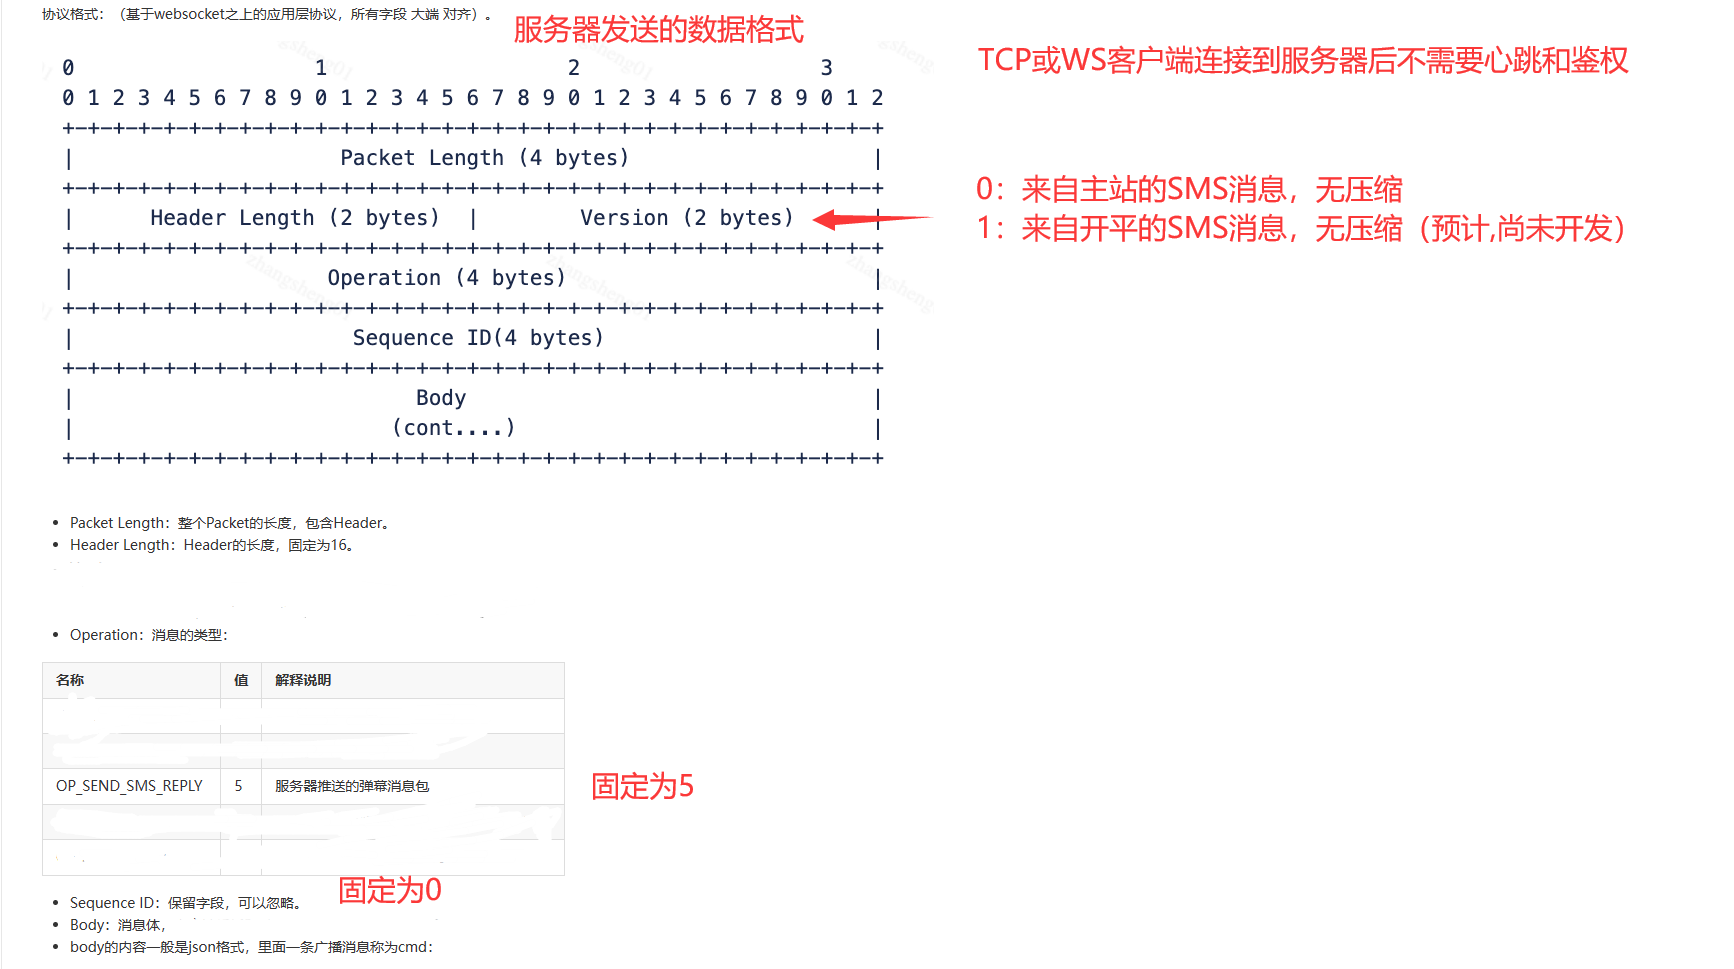
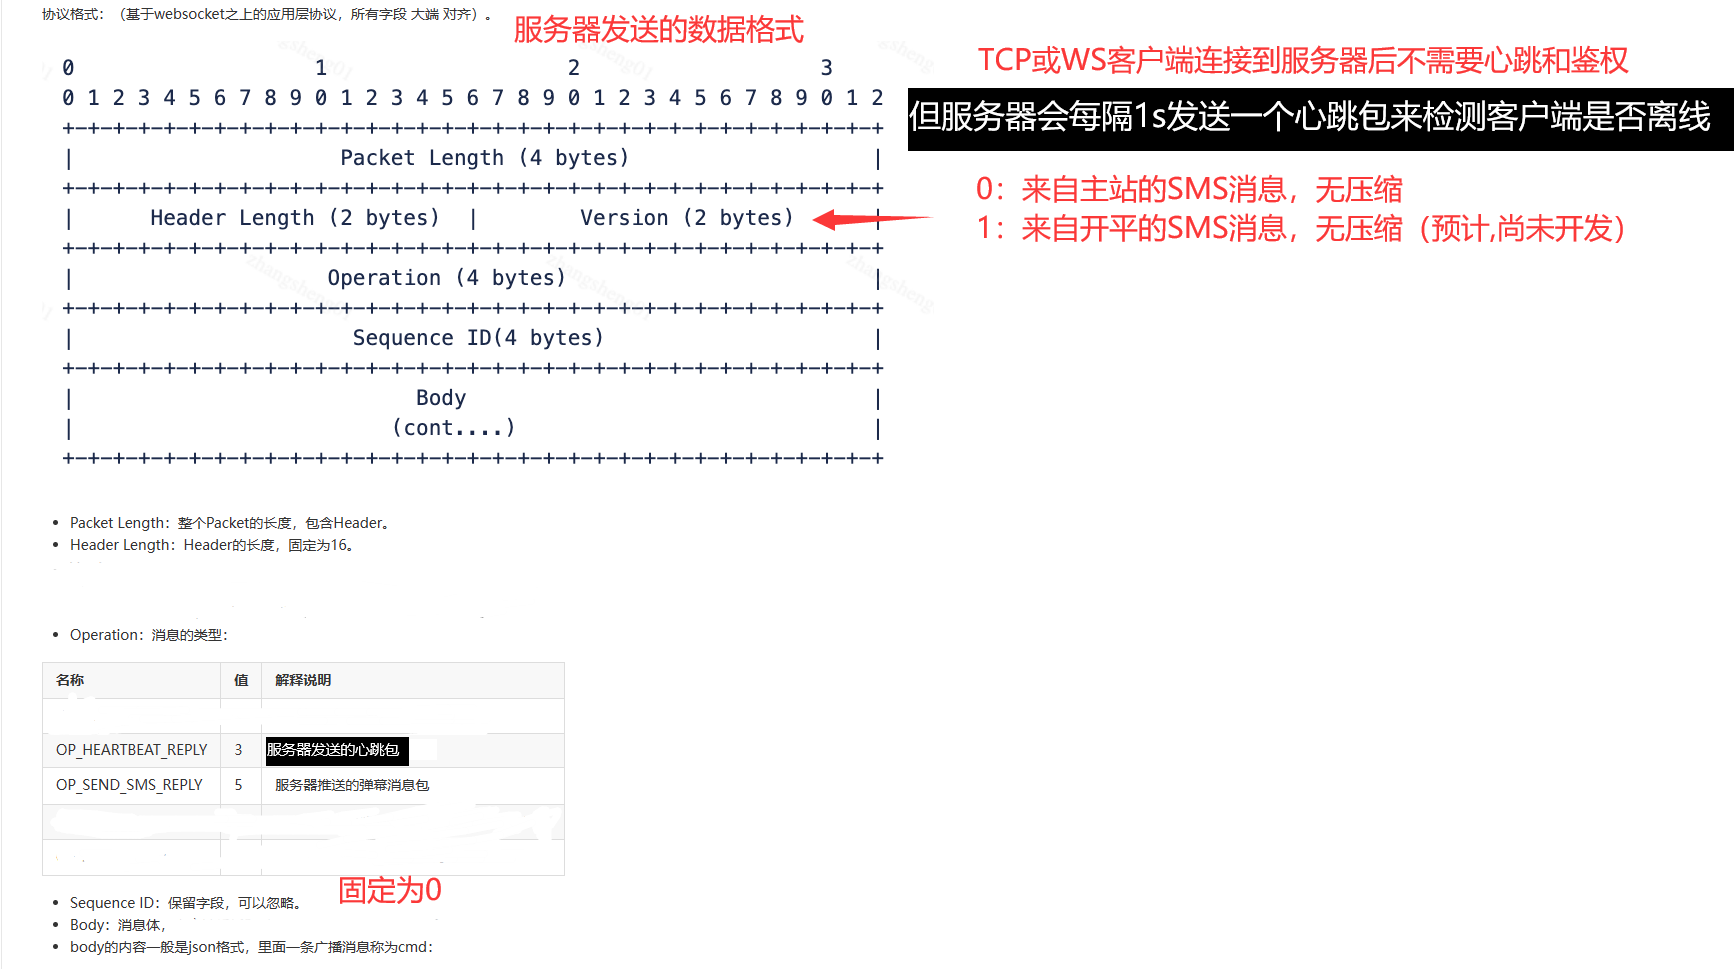
返回的心跳body改为int32的1而不是空

Changed region(s): [[0.4983, 0.0929, 1.0, 0.1548], [0.0311, 0.743, 0.2491, 0.8359], [0.3426, 0.774, 0.4048, 0.8359]]

diff --git a/BLiveServer.cs b/BLiveServer.cs
@@ -6,8 +6,6 @@ namespace BLiveTransponder;
 
 internal abstract class BLiveServer<T>
 {
-    internal delegate void ServerEventHandler(string result);
-
     protected readonly ConcurrentDictionary<Guid, T> Clients = new();
     protected readonly bool Enable;
     protected readonly ushort Port;
@@ -80,4 +78,6 @@ internal abstract class BLiveServer<T>
     protected abstract void ClientDispose(T clientSocket);
 
     protected abstract Task ClientSendAsync(T clientSocket, byte[] rawData);
+
+    internal delegate void ServerEventHandler(string result);
 }

diff --git a/BLiveBase.cs b/BLiveBase.cs
@@ -231,7 +231,7 @@ internal static class BLiveBase
 
     internal static byte[] CreateHeartbeatPacket(short version)
     {
-        return CreatePacket(version, ServerOperation.OpHeartbeatReply, Array.Empty<byte>());
+        return CreatePacket(version, ServerOperation.OpHeartbeatReply, ToBigEndianBytes(1));
     }
 
     private static byte[] ToBigEndianBytes(int value)
